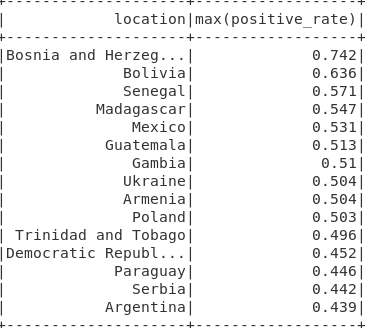
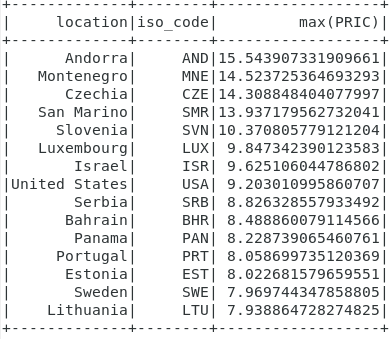
2.0

Changed region(s): [[0.0, 0.1524, 1.0, 1.0], [0.0, 0.0, 1.0, 0.122]]

diff --git a/Spark_data_frame/spark_2_1.py b/Spark_data_frame/spark_2_1.py
@@ -14,9 +14,9 @@ df = (spark.read.option('header', True)
   .option('inferSchema', True)
   .csv('owid-covid-data.csv'))
 
-df.select('iso_code','location','date', 'positive_rate')
-  .groupBy('location')
-  .max('positive_rate')
-  .orderBy(col('max(positive_rate)')
-  .desc())
+df.select('iso_code','location','date', (col('total_cases').cast('int')/col('population').cast('int')*100).cast('int')
+  .alias('PRIC')).where(col('iso_code').rlike('^((?!OWID).)*$')&(col('date')<="2021-03-31"))
+  .groupBy('location', 'iso_code')
+  .max('PRIC')
+  .orderBy(col('max(PRIC)').desc())
   .show(15)
